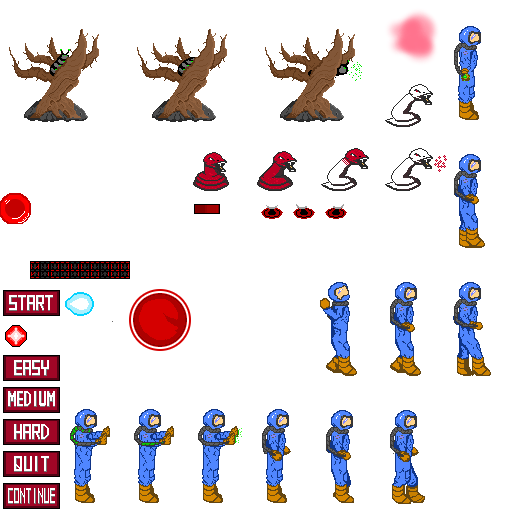
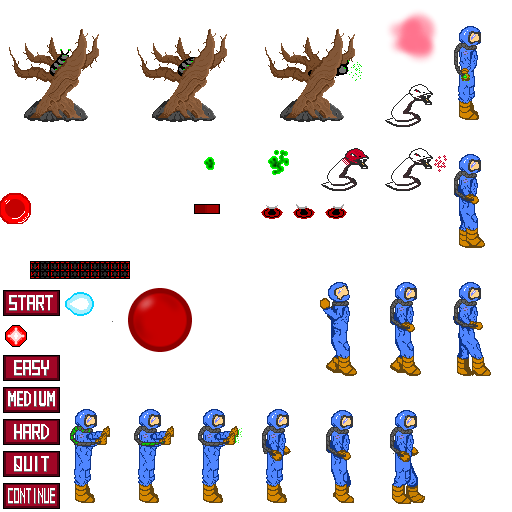
- Se agrego un nuevo sprite para que represente el KD - Se modifico el codigo para que el personaje pierda hp correctamente. - Se modifico el codigo para que el personaje camine cuando hay una transicion.

Changed region(s): [[0.25, 0.5625, 0.375, 0.6875], [0.5, 0.2812, 0.5938, 0.375], [0.375, 0.2812, 0.4688, 0.375]]

diff --git a/app/src/main/java/com/jgame/elements/RobotEnemy.java b/app/src/main/java/com/jgame/elements/RobotEnemy.java
@@ -37,7 +37,7 @@ public class RobotEnemy extends GameCharacter {
     public final static TextureData ATTACK_TEXTURE = new TextureData(0.50f, 0, 0.75f, 0.25f);
     public final static float DISTANCE_FROM_MAIN_CHARACTER = 260;
     public final static float ATTACK_DISTANCE = 95;
-    //private final EnemyAction[] actions;
+    public final static int BREATH_FRAMES = 10;
     private final MainCharacter mainCharacter;
     private final int FRAMES_TO_RECOVER = 20;
     private EnemyState currentState;
@@ -119,10 +119,8 @@ public class RobotEnemy extends GameCharacter {
             //Se verifica que el enemigo se encuentre en rango del ataque.
             if ((position.x > foe.position.x && (position.x - foe.position.x) < attackRange) ||
                     (position.x < foe.position.x && (position.x - foe.position.x) * -1 < attackRange)) {
-                decorationData.add(new StaticDecoration(IDLE_TEXTURE,
-                        new Square(new Vector2(position), spriteContainer.lenX, spriteContainer.lenY, 0),
-                        new SimpleDrawer.ColorData(1,1,1,1),
-                        baseX.x == -1, 0, 75, true));
+                decorationData.add(new BreathDecoration(BREATH_FRAMES,
+                        new Square(new Vector2(position), 30, 30, 0), true));
                 currentState = EnemyState.ATTACKING;
                 activeAttack = regularAttack;
                 for(CollisionObject co : activeAttack.active)
@@ -138,8 +136,6 @@ public class RobotEnemy extends GameCharacter {
                 currentIdleFrame = 0;
                 currentState = EnemyState.RECOVERING;
                 regularAttack.reset();
-
-                return Event.QUAKE;
             }
         }
 

diff --git a/app/src/main/java/com/jgame/game/GameActivity.java b/app/src/main/java/com/jgame/game/GameActivity.java
@@ -148,8 +148,12 @@ public class GameActivity extends Activity {
                     if(gameData.paused == false)
                         soundManager.startMusic();
 
-                } else if (QUIT_BOUNDS.contains(x, y))
+                } else if (QUIT_BOUNDS.contains(x, y)) {
+                    synchronized (gameData){
+                        gameData.state = GameState.TERMINATING;
+                    }
                     finish();
+                }
 
                 break;
 
@@ -246,7 +250,9 @@ public class GameActivity extends Activity {
                         currentDifficulty = gameData.currentDifficulty;
                     }
 
-                    if(currentState == GameState.MENU) {
+                    if(currentState == GameState.TERMINATING) {
+                        continue;
+                    } else if(currentState == GameState.MENU) {
                         if(lastInput == ControllerManager.GameInput.START_GAME)
                             currentState = GameState.STARTING;
                         else if(lastInput == ControllerManager.GameInput.CHANGE_SOUND_STATE) {

diff --git a/app/src/main/java/com/jgame/game/GameRenderer.java b/app/src/main/java/com/jgame/game/GameRenderer.java
@@ -237,6 +237,8 @@ public class GameRenderer implements Renderer {
             drawMenu(gameData.currentDifficulty);
         else if(gameData.state == GameState.TITLE_SCREEN)
             drawTitleScreen();
+        else if(gameData.state == GameState.TERMINATING)
+            drawFinishScreen();
         else {
 
             boolean characterAlive = gameActivity.mainCharacter.alive();
@@ -370,6 +372,10 @@ public class GameRenderer implements Renderer {
             drawer.addInvertedColoredSquare(c.spriteContainer, c.getCurrentTexture(), c.color);
         else
             drawer.addColoredSquare(c.spriteContainer, c.getCurrentTexture(), c.color);
+    }
+
+    private void drawFinishScreen(){
+        
     }
 
     /**

diff --git a/app/src/main/java/com/jgame/elements/BreathDecoration.java b/app/src/main/java/com/jgame/elements/BreathDecoration.java
@@ -1,0 +1,24 @@
+package com.jgame.elements;
+
+import com.jgame.util.Decoration.AnimatedDecoration;
+import com.jgame.util.Square;
+import com.jgame.util.TextureDrawer.TextureData;
+
+/**
+ * Created by jose on 12/09/17.
+ */
+
+public class BreathDecoration extends AnimatedDecoration {
+
+    private final static TextureData[] sprites = {new TextureData(0.375f,0.25f,0.5f,0.375f),
+            new TextureData(0.5f,0.25f,0.625f,0.375f)};
+
+    public BreathDecoration(int frames, Square boundaries, boolean inverted){
+        super(new AnimationData(frames, false, sprites), boundaries, inverted);
+    }
+
+    @Override
+    public void update() {
+        animation.updateFrame();
+    }
+}

diff --git a/app/src/main/java/com/jgame/game/GameData.java b/app/src/main/java/com/jgame/game/GameData.java
@@ -9,7 +9,7 @@ import com.jgame.util.Vector2;
 public class GameData {
 
     public enum GameState {
-        GAME_OVER, PLAYING, RESTART_SCREEN, STARTING, MENU, TITLE_SCREEN
+        GAME_OVER, PLAYING, RESTART_SCREEN, STARTING, MENU, TITLE_SCREEN, TERMINATING
     }
 
     public enum Event {
